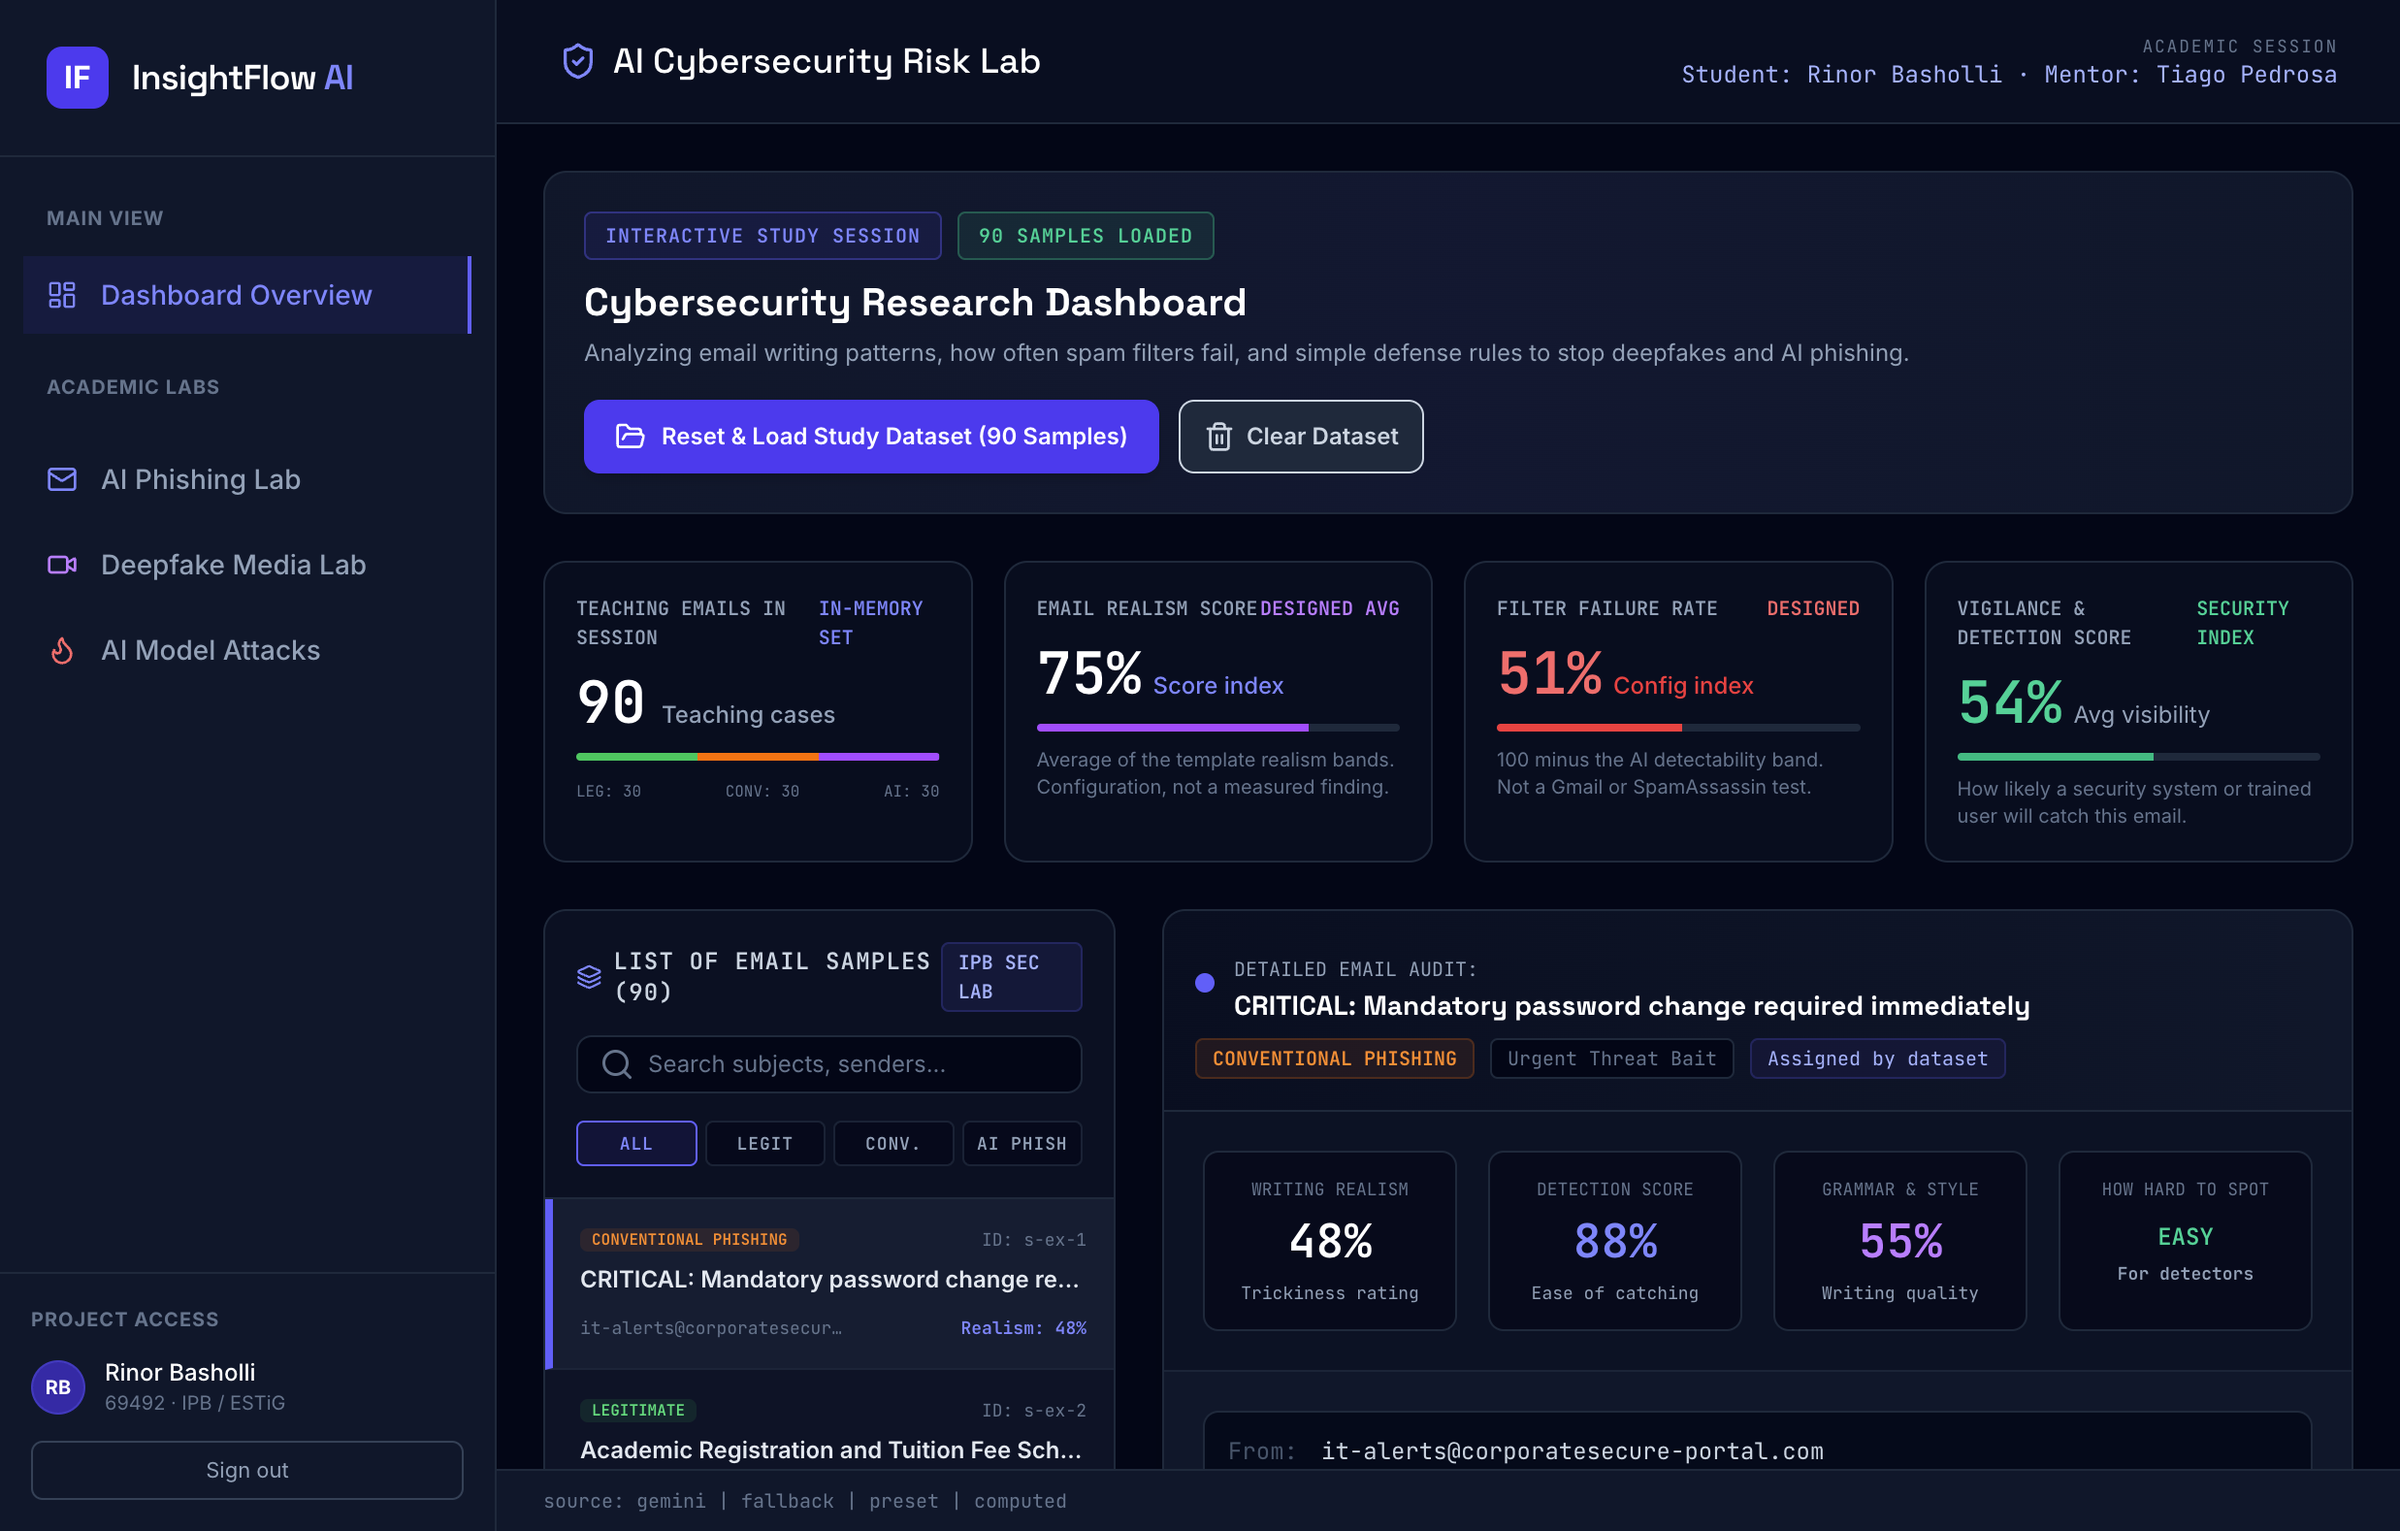
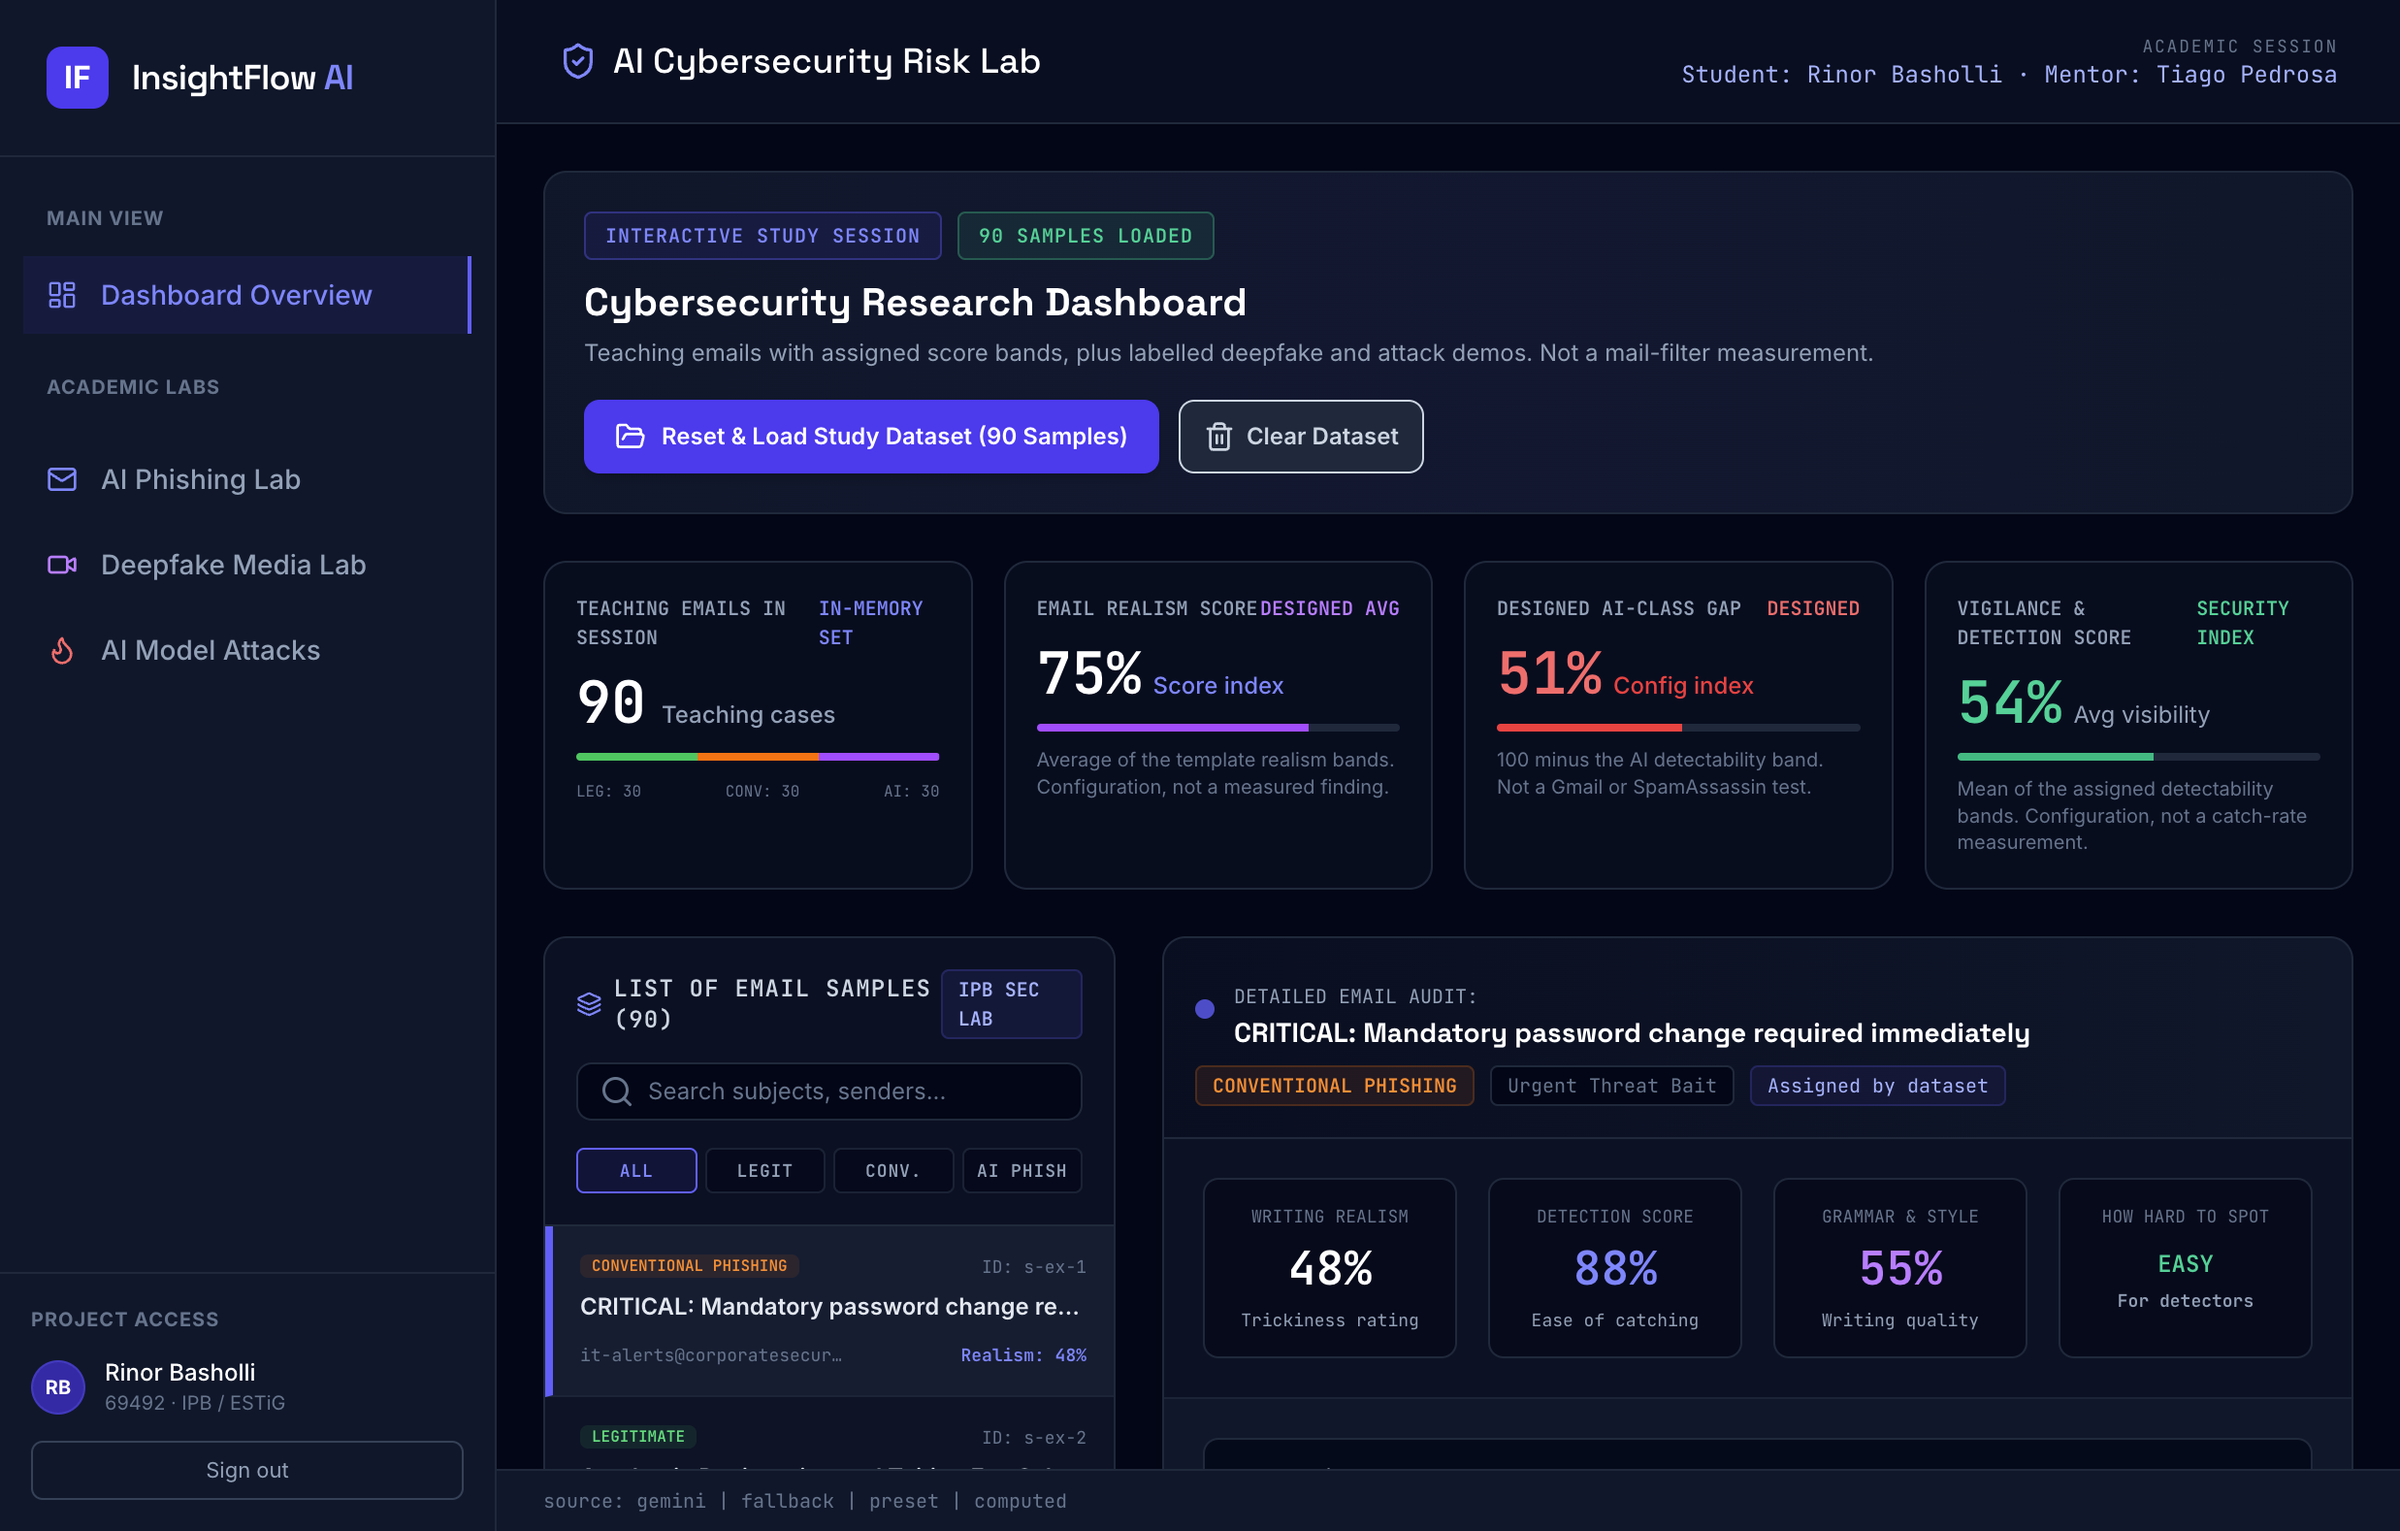
Label dashboard scores as assigned bands, not filter findings.

diff --git a/src/components/UnifiedAnalysisDashboard.tsx b/src/components/UnifiedAnalysisDashboard.tsx
@@ -125,7 +125,7 @@ export default function UnifiedAnalysisDashboard({
             </div>
             <h2 className="text-xl font-bold font-display text-white mt-2">Cybersecurity Research Dashboard</h2>
             <p className="text-xs text-slate-400 mt-1">
-              Analyzing email writing patterns, how often spam filters fail, and simple defense rules to stop deepfakes and AI phishing.
+              Teaching emails with assigned score bands, plus labelled deepfake and attack demos. Not a mail-filter measurement.
             </p>
           </div>
           
@@ -207,7 +207,7 @@ export default function UnifiedAnalysisDashboard({
         {/* Metric 3: AI Phishing Bypass Rate */}
         <div className="bg-slate-900/40 p-4 rounded-xl border border-slate-800 space-y-2">
           <div className="flex justify-between items-center text-[10px] uppercase font-mono font-semibold text-slate-400">
-            <span>Filter Failure Rate</span>
+            <span>Designed AI-class gap</span>
             <span className="text-red-400">Designed</span>
           </div>
           <div className="flex items-baseline gap-1.5">
@@ -236,7 +236,7 @@ export default function UnifiedAnalysisDashboard({
             <div style={{ width: `${metrics.avgDetectability}%` }} className="h-full bg-emerald-500 transition-all duration-300" />
           </div>
           <p className="text-[10px] text-slate-500 leading-snug">
-            How likely a security system or trained user will catch this email.
+            Mean of the assigned detectability bands. Configuration, not a catch-rate measurement.
           </p>
         </div>
       </div>
